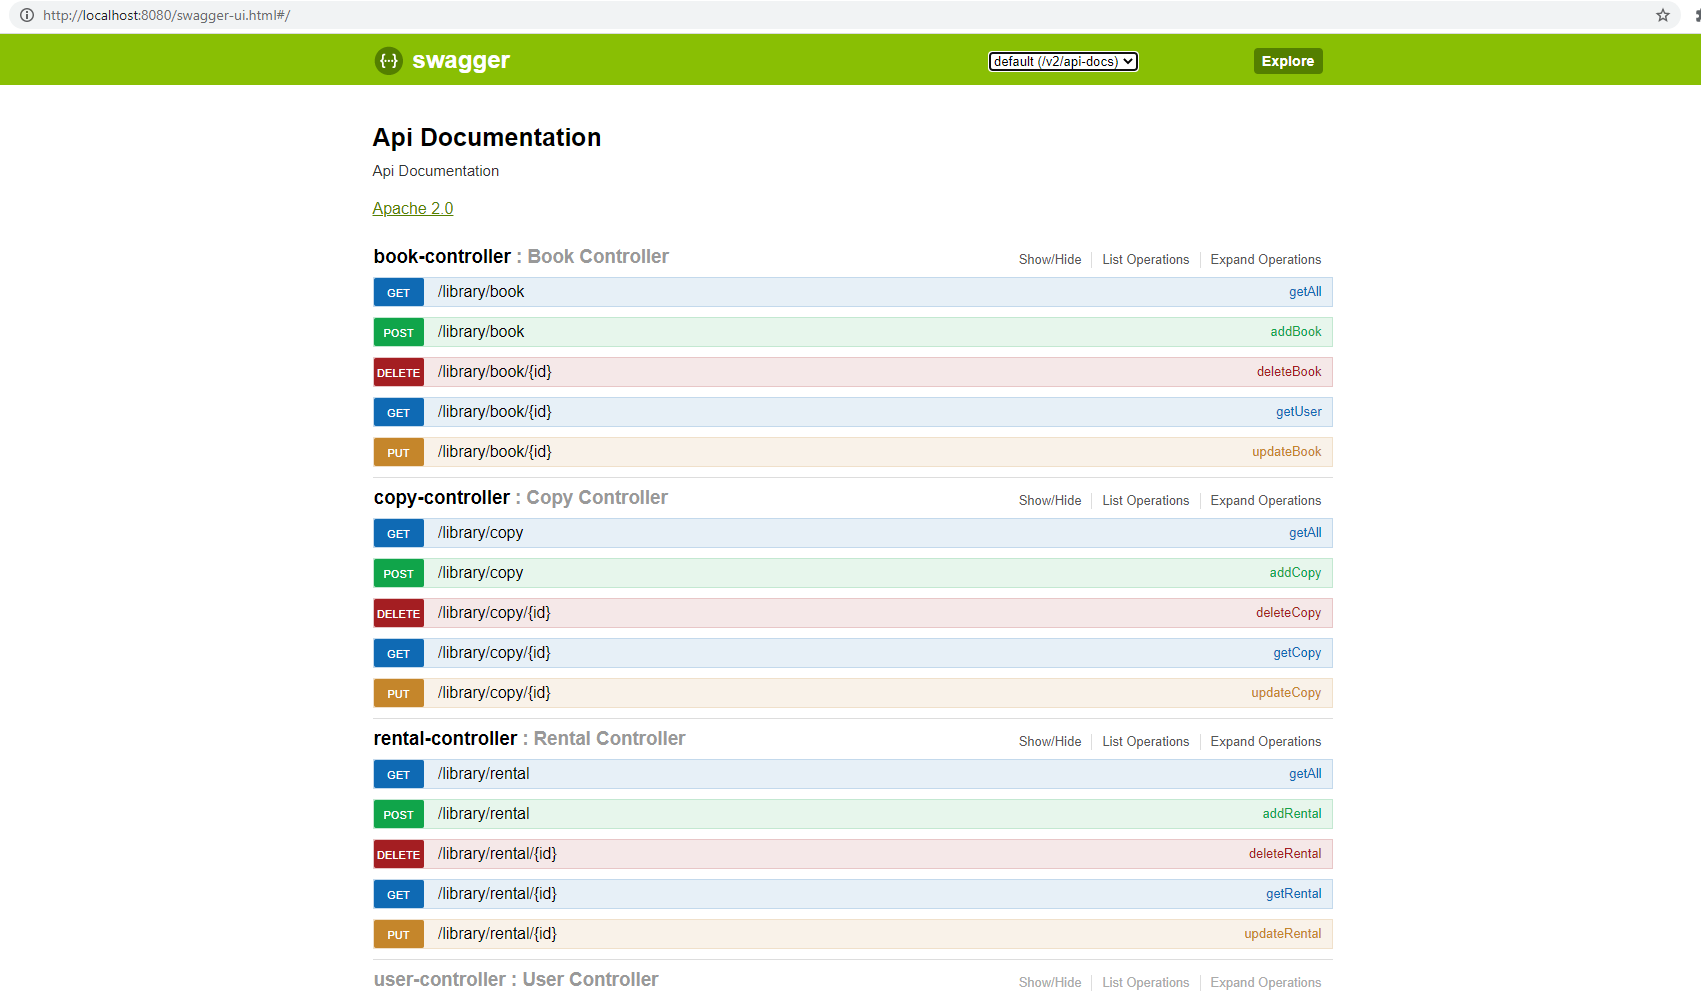
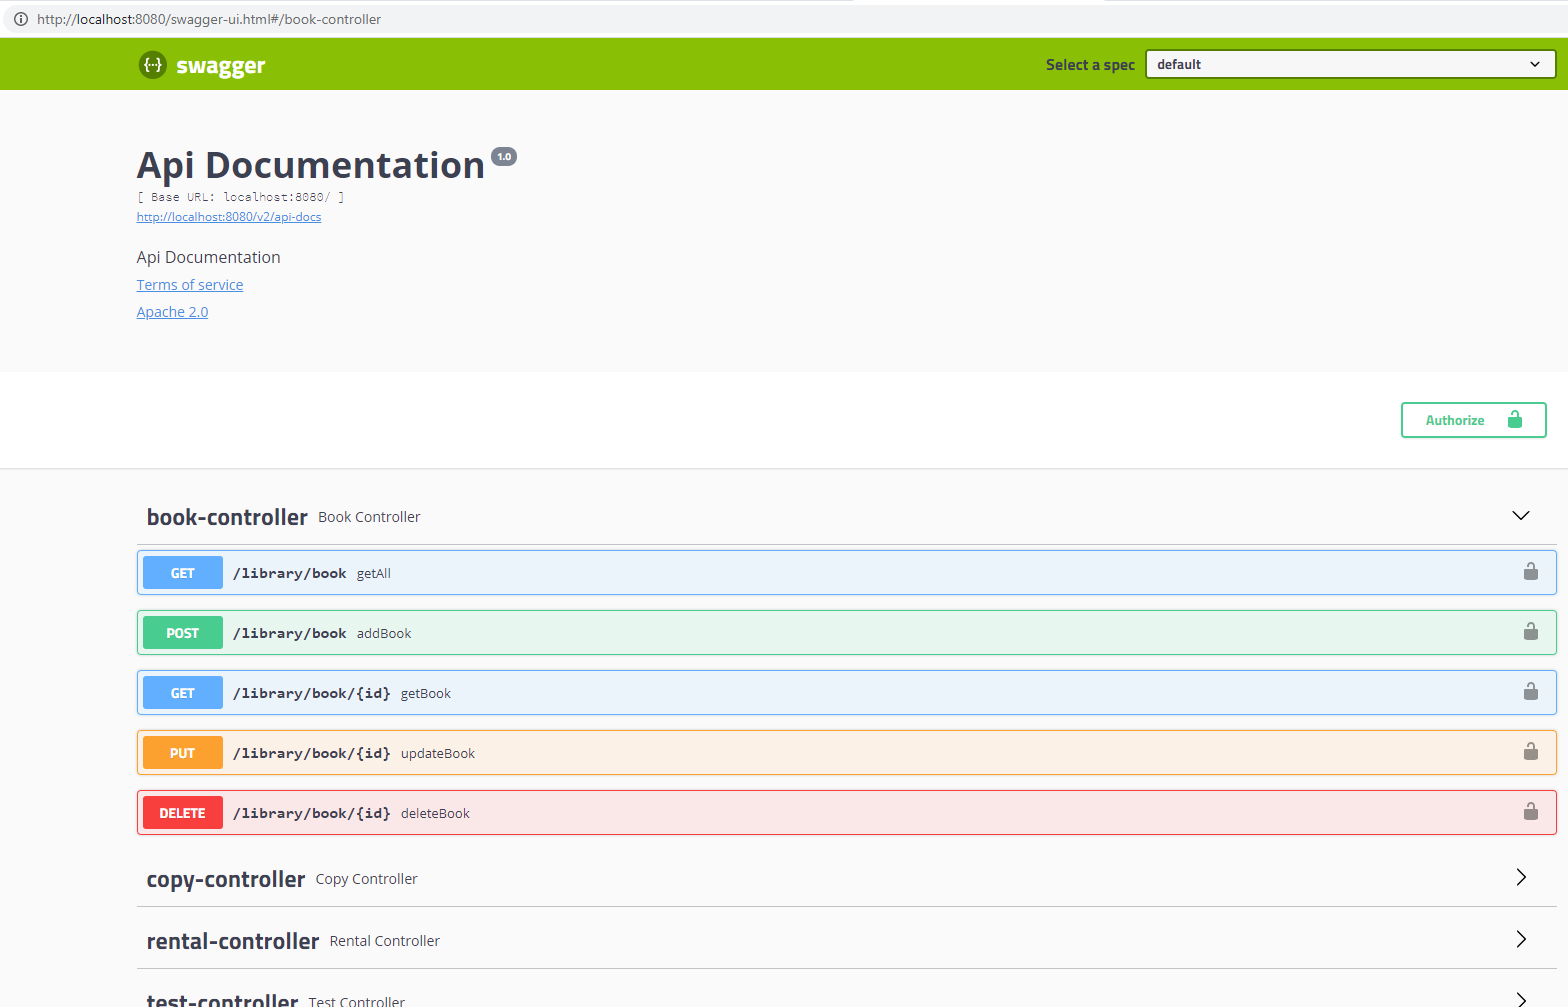
update readme

diff --git a/README.md b/README.md
@@ -4,7 +4,7 @@ Kodilla Library Project
 ### 1. Project description 
 The project consist of backend library service, based on REST architecture. 
 ### 2. Demo
-Project is not uploaded to remote server yet. 
+Project is not uploaded to remote server yet. Application tested on localhost
 
 ### 3. Requirements
 Please make sure You have following software:
@@ -15,17 +15,25 @@ Please make sure You have following software:
 ### 4. Project 
 In order to launch project You have to start LibraryApplication class.
 You can check endpoints operation on [http://localhost:8080](http://localhost:8080) address.
-### 5. Endpoint description
+
+### 5. Jwt authentication
+Jwt authentication is applied in this project. Token type is Bearer. 
+First of all you need to register your user using endpoint `./user/auth/signup`. 
+Please use `./user/auth/signin` endpoint to get token.
+
+### 6. Endpoint description
 All information regarding endpoints are covered in Swagger documentation.
 Please visit [http://localhost:8080/swagger-ui.html#/](http://localhost:8080/swagger-ui.html#/) after project is started and click on desired function.
 
 ![](src/main/resources/swagger.png)
 
-### 6. Future plans
+You can test all endpoint via swagger.
+
+### 7. Future plans
 Plans to improve project with:
-1) Spring authentication 
+1) Spring authentication (done: Jwt authentication, endpoints are secured to use with user, admin or moderator roles)
 2) Transactional features
 3) Automatic mailing features
 
-### 7. Troubleshooting 
+### 8. Troubleshooting 
 If You encounter any problems regarding operation, please let us know. 
